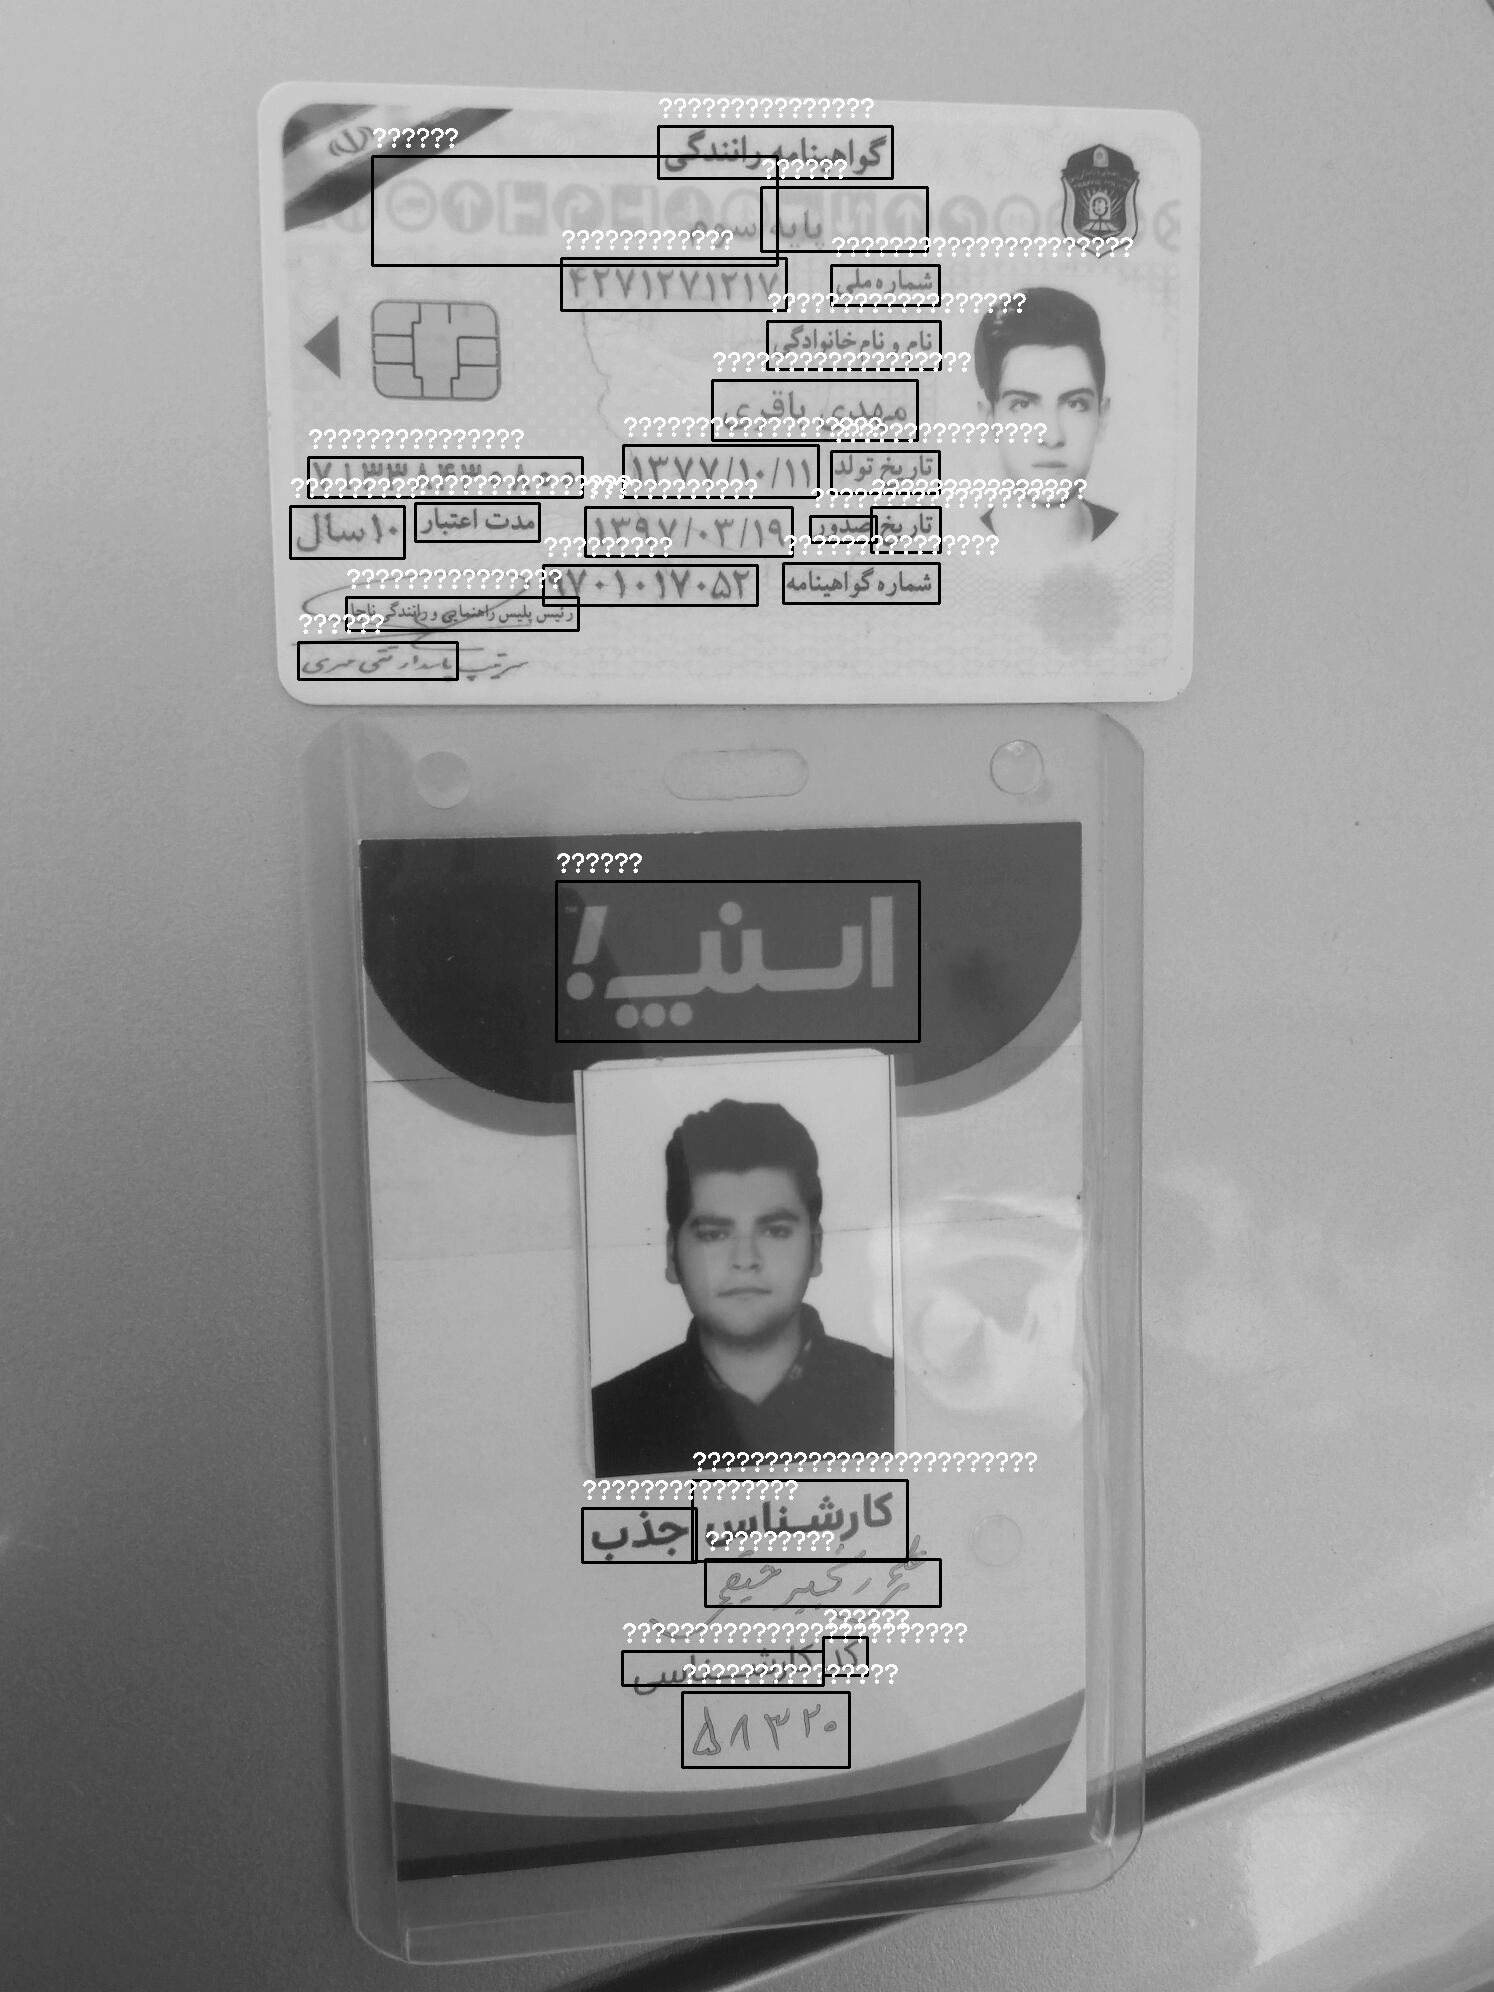
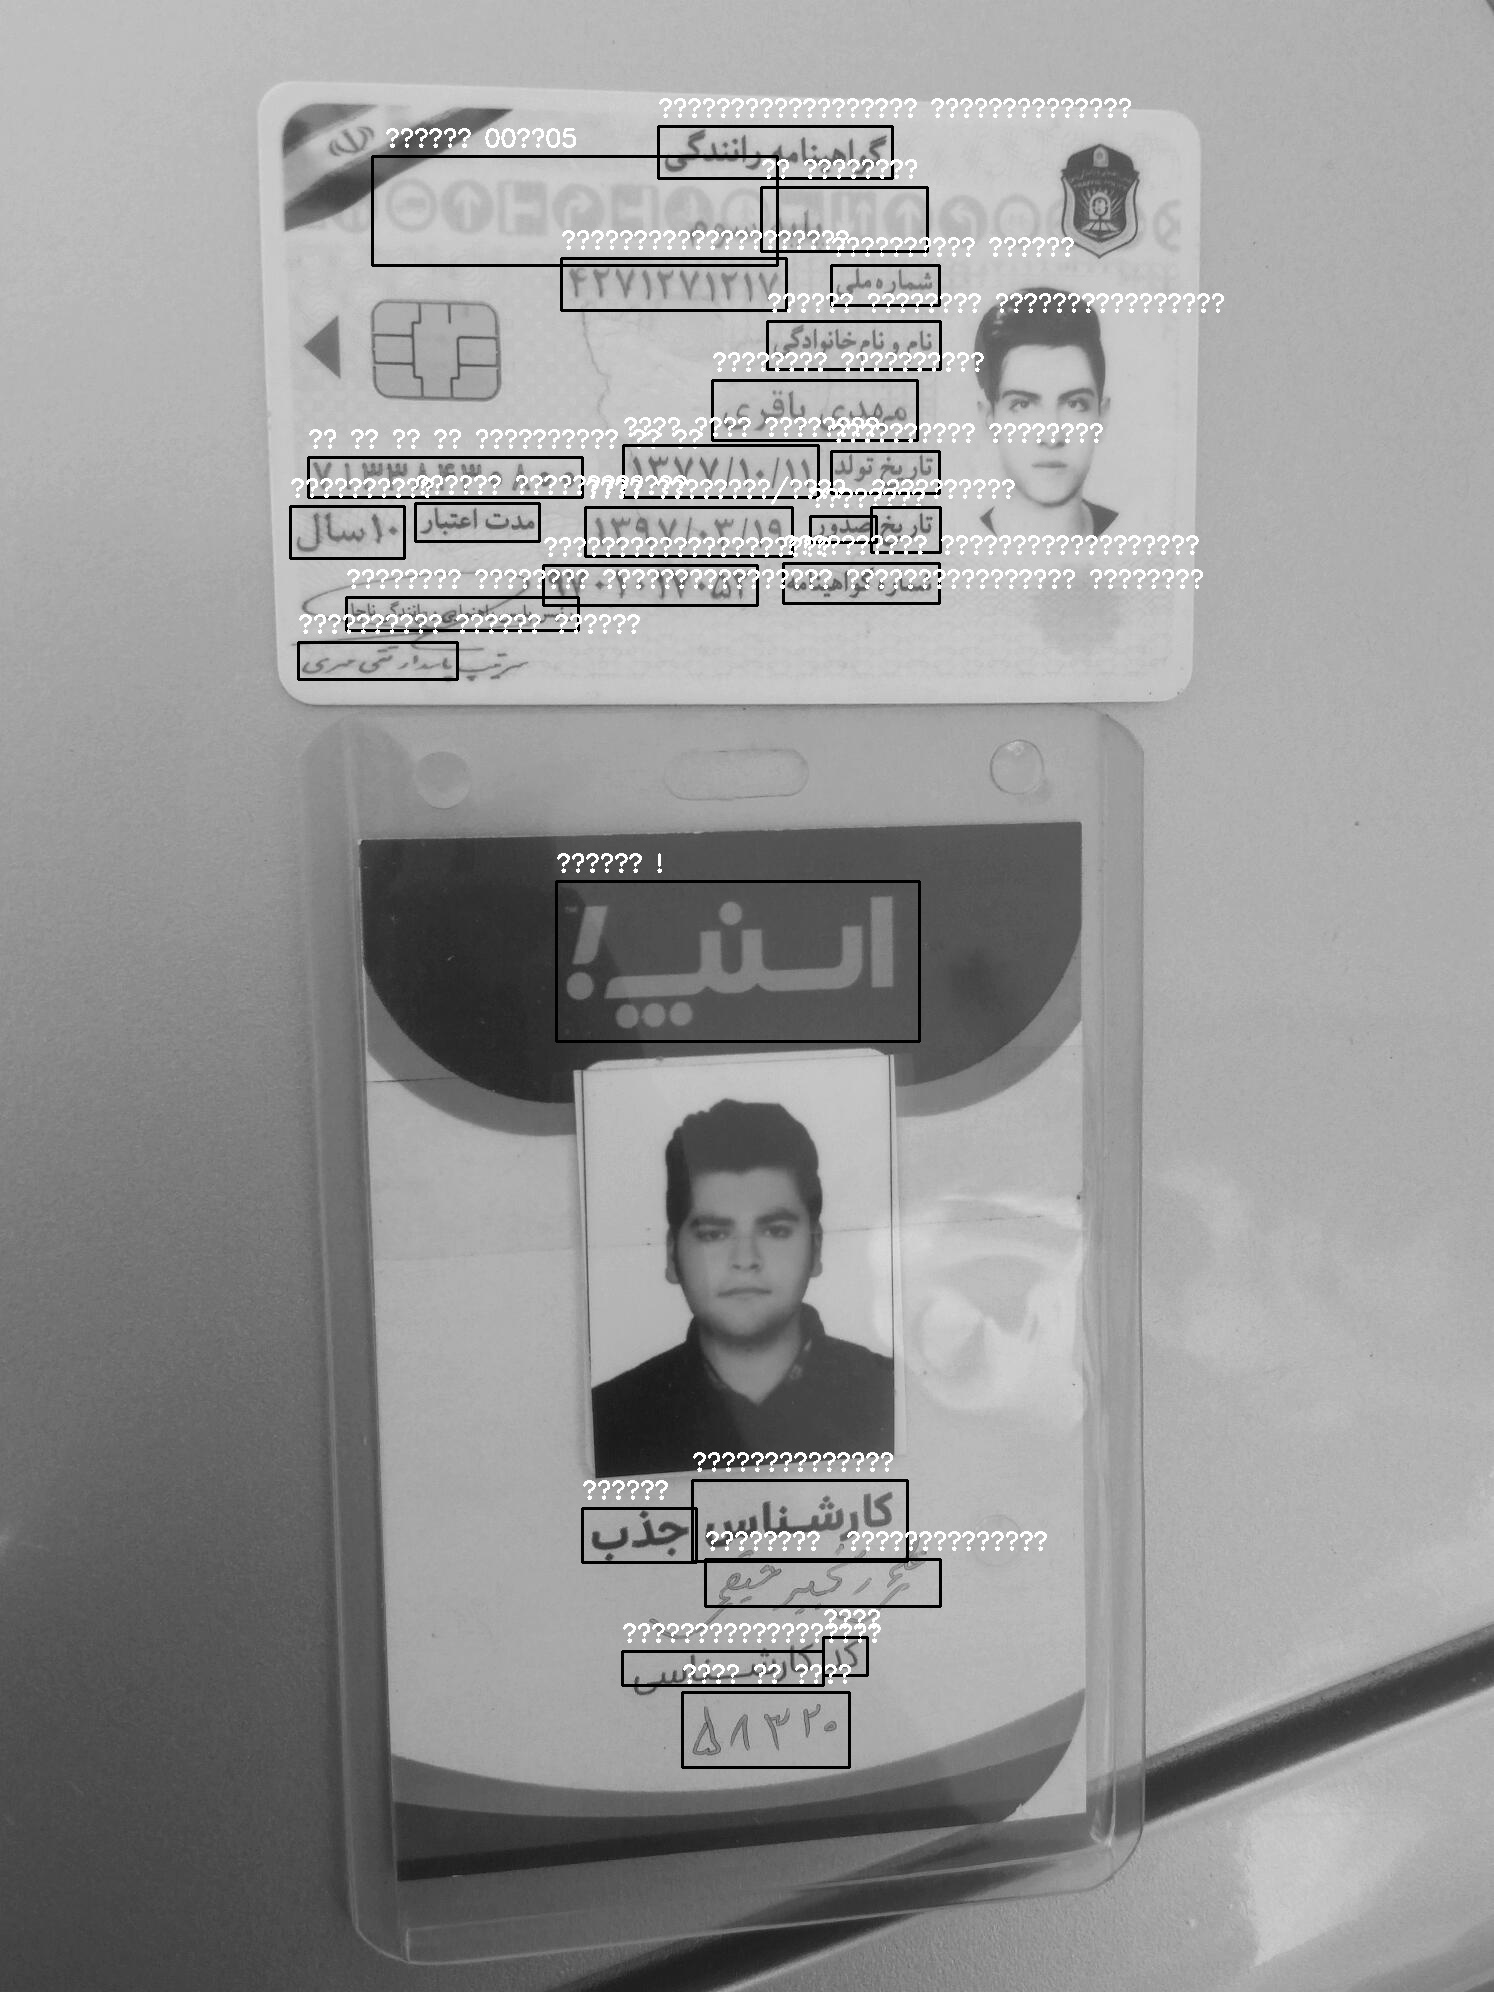
new character list

diff --git a/ocr_test.py b/ocr_test.py
@@ -1,26 +1,24 @@
 import easyocr
 import cv2
 import matplotlib.pyplot as plt
-
-reader = easyocr.Reader(['fa'], recog_network = 'our_model_300000')
+reader = easyocr.Reader(['fa'])
 img = cv2.imread('/home/yousef/Desktop/mehdiBagheri.jpg')
-img = cv2.cvtColor(img, cv2.COLOR_BGR2GRAY)
-print(img.shape)
-result = reader.readtext(img)
-print(result)
+# img = cv2.cvtColor(img, cv2.COLOR_BGR2GRAY)
+# print(img.shape)
+# result = reader.readtext(img)
+# print(result)
 
 
-for (bbox, text, prob) in result: 
-  # unpack the bounding box
-  print(prob)
-  (tl, tr, br, bl) = bbox
-  tl = (int(tl[0]), int(tl[1]))
-  tr = (int(tr[0]), int(tr[1]))
-  br = (int(br[0]), int(br[1]))
-  bl = (int(bl[0]), int(bl[1]))
-  cv2.rectangle(img, tl, br, (0, 255, 0), 2)
-  cv2.putText(img, text, (tl[0], tl[1] - 10),
-    cv2.FONT_HERSHEY_SIMPLEX, 0.8, (255, 0, 0), 2)
-cv2.imwrite("./after.jpg", img)
-
-
+# for (bbox, text, prob) in result: 
+#   # unpack the bounding box
+#   # print(prob)
+#   print(text)
+#   (tl, tr, br, bl) = bbox
+#   tl = (int(tl[0]), int(tl[1]))
+#   tr = (int(tr[0]), int(tr[1]))
+#   br = (int(br[0]), int(br[1]))
+#   bl = (int(bl[0]), int(bl[1]))
+#   cv2.rectangle(img, tl, br, (0, 255, 0), 2)
+#   cv2.putText(img, text, (tl[0], tl[1] - 10),
+#     cv2.FONT_HERSHEY_SIMPLEX, 0.8, (255, 0, 0), 2)
+# cv2.imwrite("./after.jpg", img)
